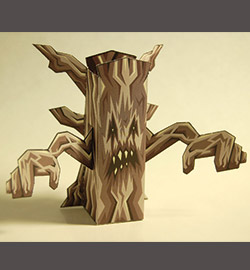
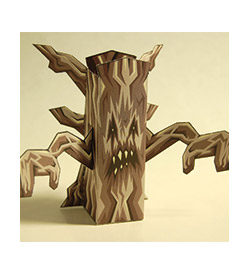
fixed index monster, photos and text from index

diff --git a/monsters/index.html b/monsters/index.html
@@ -3,16 +3,18 @@ layout: default
 title: monsters
 meta: All the paper toy monsters that one can imagine.
 ---
-<main role="main" class="grid box-product">
+<main role="main" class="grid box-product monstername">
 	<div class="unit gutter unit-s-1 unit-m-1 unit-l-1-2 unit-mxl-1-3 unit-xl-1-3">
 		<ul>
 			{% for monsters in site.pages %}
 				{% if monsters.category == 'earth monster' %}
-					<li>
+					<li class="">
 						<a href="{{monsters.url}}" alt="earth monster">
-						<img src="{{site.baseurl}}/images/{{monsters.image}}" alt="earth monster">
-						{{monsters.name}}
-						{{monsters.category}}
+						<img class="img-m-index"src="{{site.baseurl}}/images/{{monsters.image}}" alt="earth monster">
+							<div class="unit gutter unit-s-1 unit-m-1 unit-l-1-2 unit-mxl-1 unit-xl-1">
+								{{monsters.name}}
+								{{monsters.category}}
+							</div>
 						</a>
 					</li>
 				{% endif %}
@@ -25,9 +27,11 @@ meta: All the paper toy monsters that one can imagine.
 				{% if monsters.category == 'ocean monster' %}
 					<li>
 						<a href="{{monsters.url}}">
-						<img src="{{site.baseurl}}/images/{{monsters.image}}" alt="ocean monster">
-						{{monsters.name}}
-						{{monsters.category}}
+						<img class="img-m-index" src="{{site.baseurl}}/images/{{monsters.image}}" alt="ocean monster">
+							<div class="unit gutter unit-s-1 unit-m-1 unit-l-1-2 unit-mxl-1 unit-xl-1">
+								{{monsters.name}}
+								{{monsters.category}}
+							</div>
 						</a>
 					</li>
 				{% endif %}
@@ -40,9 +44,11 @@ meta: All the paper toy monsters that one can imagine.
 				{% if monsters.category == 'space monster' %}
 					<li>
 						<a href="{{monsters.url}}">
-						<img src="{{site.baseurl}}/images/{{monsters.image}}" alt="space monster">
-						{{monsters.name}}
-						{{monsters.category}}
+						<img class="img-m-index" src="{{site.baseurl}}/images/{{monsters.image}}" alt="space monster">
+							<div class="unit gutter unit-s-1 unit-m-1 unit-l-1-2 unit-mxl-1 unit-xl-1">
+								{{monsters.name}}
+								{{monsters.category}}
+							</div>
 						</a>
 					</li>
 				{% endif %}
@@ -55,9 +61,11 @@ meta: All the paper toy monsters that one can imagine.
 				{% if monsters.category == 'mutant monster' %}
 					<li>
 						<a href="{{monsters.url}}">
-						<img src="{{site.baseurl}}/images/{{monsters.image}}" alt="mutant monster">
-						{{monsters.name}}
-						{{monsters.category}}
+						<img class="img-m-index" src="{{site.baseurl}}/images/{{monsters.image}}" alt="mutant monster">
+							<div class="unit gutter unit-s-1 unit-m-1 unit-l-1-2 unit-mxl-1 unit-xl-1">
+								{{monsters.name}}
+								{{monsters.category}}
+							</div>
 						</a>
 					</li>
 				{% endif %}

diff --git a/_includes/css/product-details.css b/_includes/css/product-details.css
@@ -22,7 +22,11 @@ h1, h2, h3, h4, h5, h6, p, ul, ol, dl, table {
 h1, h2, h3, h4, h5, h6 {
 	font-family: 'Irish Grover', cursive;
 }
-
+.monstername {
+	font-size: 1.3rem;
+	font-family: 'Irish Grover', cursive;
+	padding-left: 1%;
+}
 .zetta {
   font-family: 'Irish Grover', cursive;
   font-size: 2.9860rem;
@@ -91,12 +95,17 @@ h4, giga {
 
 /* END of Side Table */
 
+.img-m-index {
+	width: 100%;
+	position: relative;
+	float: none;
+
+}
 
 .img-list-small {
 	width: 60%;
 	position: relative;
 }
-
 
 .box {
 	background-color: #fff;
@@ -105,7 +114,7 @@ h4, giga {
 .box-product {
 	background-color: #fff;
 	margin: 6%;
-	border-style: groove;
+	border-style: inset;
 
 }
 
@@ -202,6 +211,16 @@ h4, giga {
 
 .monstertype {
 	color: #ff6600;
+}
+
+@media only screen and (min-width: 30em) {
+
+.img-m-index {
+	width: 40%;
+	position: relative;
+	float: none;
+	}
+
 }
 
 @media only screen and (min-width: 30em) {
